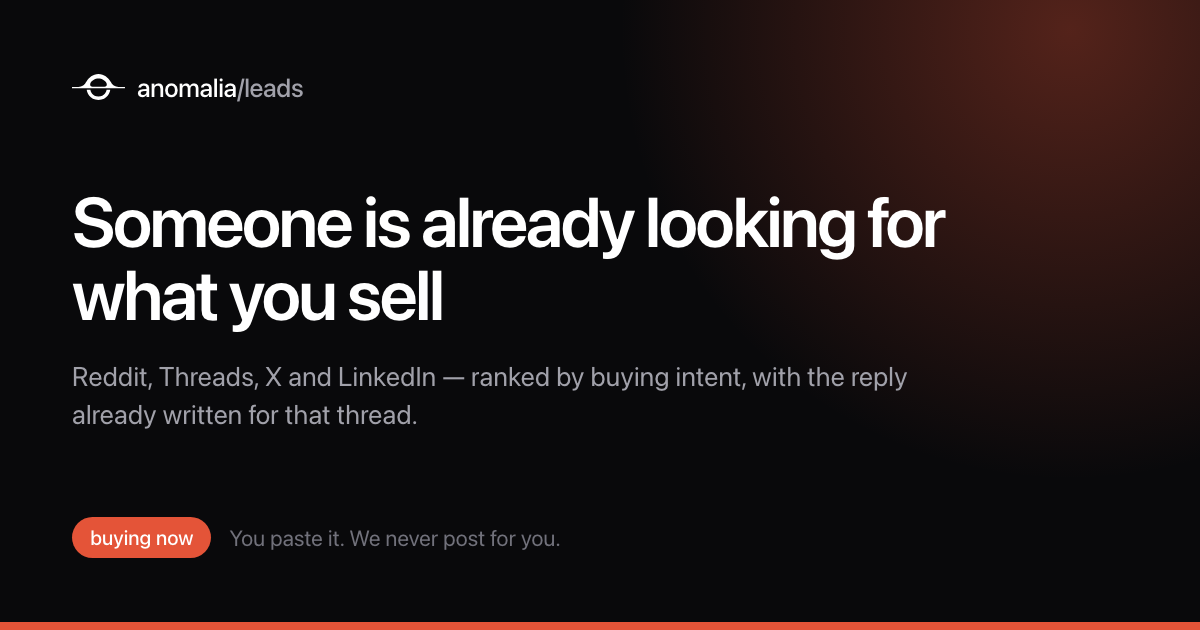
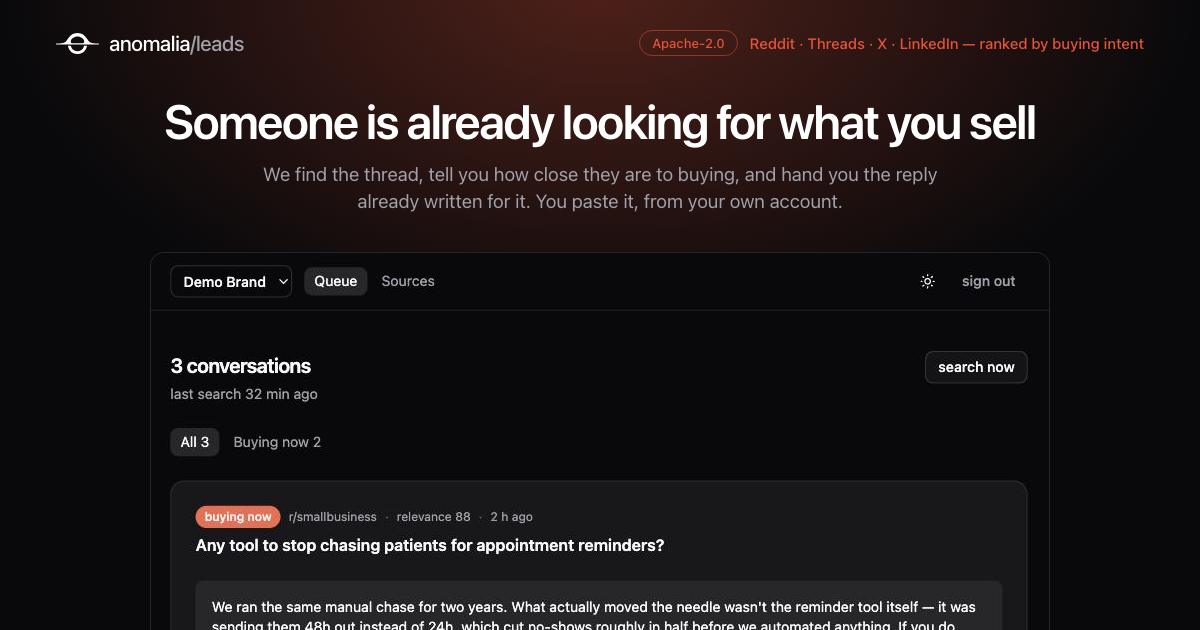
Rifai l'immagine social: la coda vera, non una promessa
La prima versione era solo tipografia su fondo scuro: diceva cosa fa il prodotto senza mostrarlo.
Questa segue l'impostazione dell'hero di anomaliaso/anomalia — marchio e licenza in testa, titolo
al centro, e sotto il prodotto che sborda dal bordo inferiore.

Il mockup è uno screenshot della coda vera girata in locale, non un disegno: tre lead sul brand
`demo`, ordinati per intenzione, con la bozza pronta. Ridisegnarla a mano avrebbe voluto dire
mantenere una seconda interfaccia che somiglia a quella vera finché qualcuno non cambia la prima.

Stessa immagine anche come hero del README: era la richiesta, ed evita di avere due asset che
raccontano lo stesso prodotto in modi diversi.

Claude-Session: https://claude.ai/code/session_015vGRdo1fcfiQc2XQrrF8Dj

diff --git a/README.md b/README.md
@@ -1,4 +1,10 @@
-# anomalia-leads
+<p align="center">
+  <img src="static/favicon.svg" width="72" alt="anomalia/leads" />
+</p>
+
+<h1 align="center">anomalia-leads</h1>
+
+![anomalia/leads — someone is already looking for what you sell](static/og.png)
 
 Trova le conversazioni in cui il tuo prodotto ha davvero qualcosa da dire — su Reddit, Threads,
 X e LinkedIn — le ordina per intenzione d'acquisto, e ti prepara la risposta da incollare.
